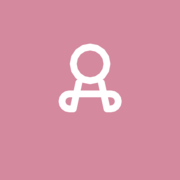
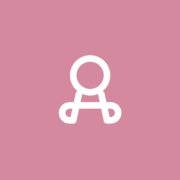
Update baby-tracker design changes

Changed region(s): [[0.3056, 0.2222, 0.6944, 0.6944]]

diff --git a/src/App.jsx b/src/App.jsx
@@ -664,7 +664,7 @@ export default function BabyTracker({ session }){
         <div style={{display:"grid",gridTemplateColumns:"auto 1fr",gridTemplateRows:"auto auto",columnGap:16,rowGap:4}}>
           <div style={{gridRow:"1/3",display:"flex",alignItems:"flex-end"}}>
             <div style={{display:"flex",alignItems:"center",gap:7}}>
-              <svg xmlns="http://www.w3.org/2000/svg" viewBox="0 0 48 48" style={{width:26,height:26,flexShrink:0}}><circle cx="24" cy="24" r="24" fill="#d4899e"/><g fill="none" stroke="#fff" strokeWidth="1.8" strokeLinecap="round" strokeLinejoin="round" transform="translate(12,10)"><path d="M9 12l-1.5 7H6.5a2 2 0 0 1 0-4h11a2 2 0 0 1 0 4h-1l-1.5-7"/><circle cx="12" cy="7" r="4.5"/></g></svg>
+              <svg xmlns="http://www.w3.org/2000/svg" viewBox="0 0 48 48" style={{width:26,height:26,flexShrink:0}}><circle cx="24" cy="24" r="24" fill="#d4899e"/><g fill="none" stroke="#fff" strokeWidth="1.8" strokeLinecap="round" strokeLinejoin="round" transform="translate(12,13)"><path d="M9 12l-1.5 7H6.5a2 2 0 0 1 0-4h11a2 2 0 0 1 0 4h-1l-1.5-7"/><circle cx="12" cy="7" r="4.5"/></g></svg>
               <div>
                 <div style={{fontSize:"1.1rem"}}><span style={{fontWeight:500,color:"#d4899e"}}>Baby</span><span style={{fontWeight:300,color:"#d4899e"}}>Tracker</span></div>
                 <div style={{fontSize:".72rem",color:"#aaa",marginTop:1}}>Every Milestone Matters</div>
@@ -997,7 +997,7 @@ export default function BabyTracker({ session }){
           </div>
           <div style={{padding:"16px 0",borderTop:"1px solid #eee",marginTop:12,textAlign:"center"}}>
             <div style={{display:"flex",alignItems:"center",justifyContent:"center",gap:6}}>
-              <svg xmlns="http://www.w3.org/2000/svg" viewBox="0 0 48 48" style={{width:16,height:16,flexShrink:0}}><circle cx="24" cy="24" r="24" fill="#d4899e"/><g fill="none" stroke="#fff" strokeWidth="1.8" strokeLinecap="round" strokeLinejoin="round" transform="translate(12,10)"><path d="M9 12l-1.5 7H6.5a2 2 0 0 1 0-4h11a2 2 0 0 1 0 4h-1l-1.5-7"/><circle cx="12" cy="7" r="4.5"/></g></svg>
+              <svg xmlns="http://www.w3.org/2000/svg" viewBox="0 0 48 48" style={{width:16,height:16,flexShrink:0}}><circle cx="24" cy="24" r="24" fill="#d4899e"/><g fill="none" stroke="#fff" strokeWidth="1.8" strokeLinecap="round" strokeLinejoin="round" transform="translate(12,13)"><path d="M9 12l-1.5 7H6.5a2 2 0 0 1 0-4h11a2 2 0 0 1 0 4h-1l-1.5-7"/><circle cx="12" cy="7" r="4.5"/></g></svg>
               <span style={{fontSize:".82rem"}}><span style={{fontWeight:500,color:"#d4899e"}}>Baby</span><span style={{fontWeight:300,color:"#d4899e"}}>Tracker</span></span>
               <span style={{fontSize:".68rem",color:"#aaa"}}>&middot;</span>
               <span style={{fontSize:".68rem",color:"#aaa"}}>Every Milestone Matters</span>

diff --git a/src/Auth.jsx b/src/Auth.jsx
@@ -46,8 +46,10 @@ export default function Auth({ onLogin }) {
         <div style={{ textAlign: "center", marginBottom: 32 }}>
           <div style={{ width: 48, height: 48, borderRadius: "50%", background: BRAND, display: "flex", alignItems: "center", justifyContent: "center", margin: "0 auto 12px" }}>
             <svg viewBox="0 0 24 24" style={{ width: 26, height: 26, fill: "none", stroke: "#fff", strokeWidth: 1.8, strokeLinecap: "round", strokeLinejoin: "round" }}>
-              <path d="M9 12l-1.5 7H6.5a2 2 0 0 1 0-4h11a2 2 0 0 1 0 4h-1l-1.5-7" />
-              <circle cx="12" cy="7" r="4.5" />
+              <g transform="translate(0,1.5)">
+                <path d="M9 12l-1.5 7H6.5a2 2 0 0 1 0-4h11a2 2 0 0 1 0 4h-1l-1.5-7" />
+                <circle cx="12" cy="7" r="4.5" />
+              </g>
             </svg>
           </div>
           <div style={{ fontSize: "1.5rem", marginBottom: 2 }}><span style={{ fontWeight: 500, color: "#d4899e" }}>Baby</span><span style={{ fontWeight: 300, color: "#d4899e" }}>Tracker</span></div>
